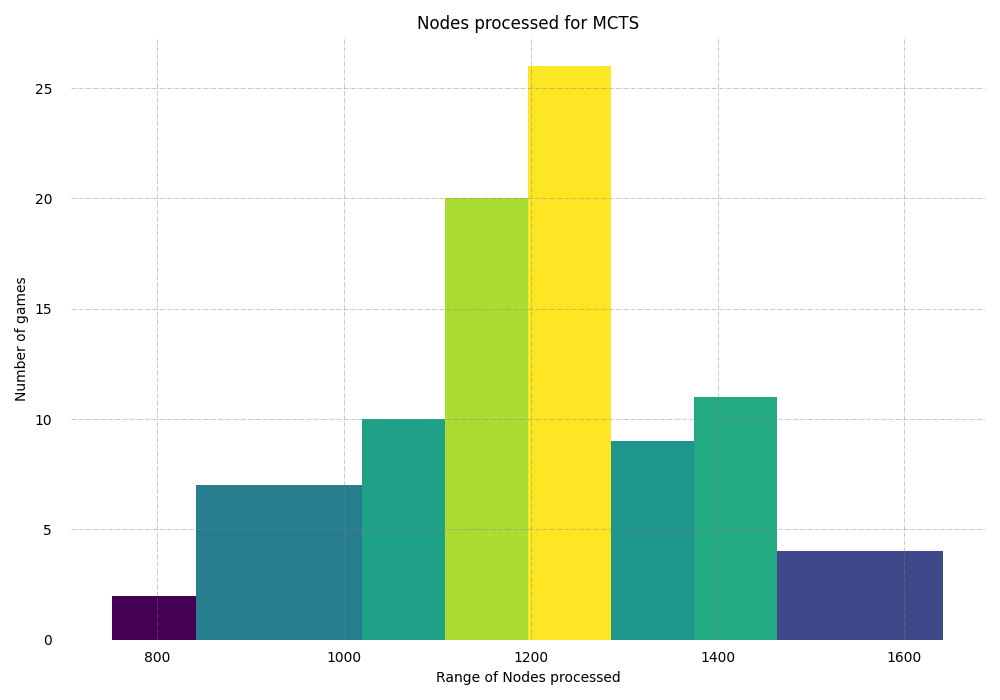
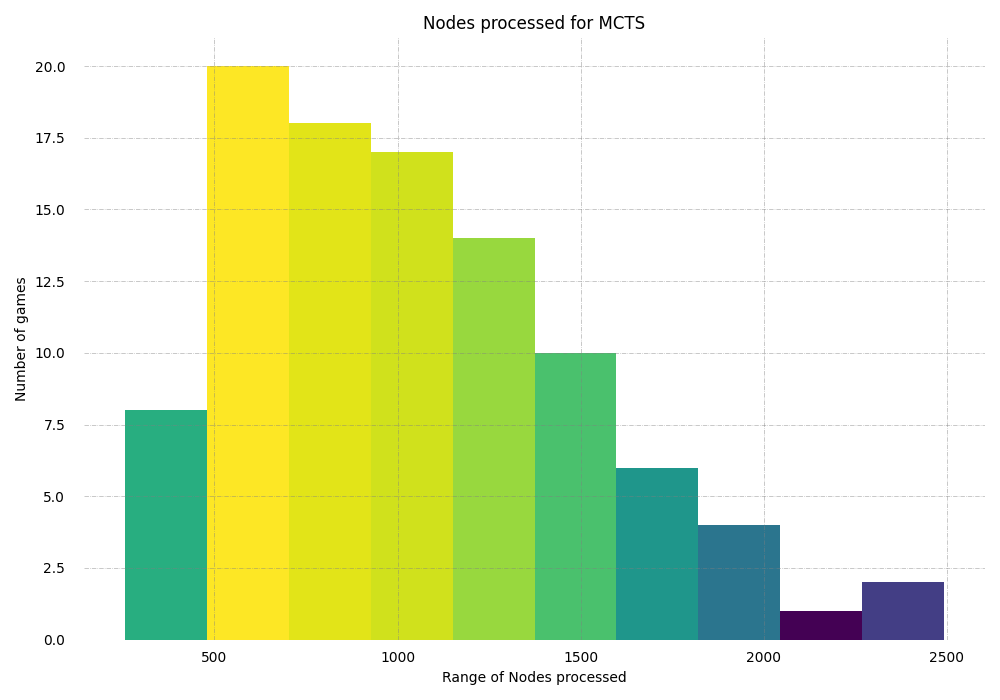
Added python program to simulate NN+MCTS vs MCTS, Added training data

diff --git a/src/treenn_vs_tree.py b/src/treenn_vs_tree.py
@@ -1,0 +1,166 @@
+import argparse
+from copy import deepcopy
+import numpy as np
+import matplotlib.pyplot as plt
+from matplotlib import colors
+from matplotlib.ticker import PercentFormatter
+from board import Board
+import math
+from bot import Node
+from bot import Bot, puct
+from player import Player
+
+def check_num_of_games(val):
+    try:
+        val = int(val)
+        if(val < 0): 
+            return 100
+        return val
+    except:
+        return 100
+
+def accept_board_config(val):
+    try:
+        val = int(val)
+        if(val == 8 or val == 10 or val == 6): 
+            return val
+        return 8
+    except:
+        return 8
+# type = lambda x : x if (x == 8 or x == 10) else 8
+def main():
+    parser = argparse.ArgumentParser(description="Enter the size of board and number of games you want to simulate")
+    parser.add_argument('board_config', default = 8, type = accept_board_config)
+    parser.add_argument('num_of_games', default = 100, type = check_num_of_games)
+    args = parser.parse_args()
+    board_config = args.board_config
+    num_of_games = args.num_of_games
+    num_of_pawns = 0
+    print(f"Board config selected:{board_config}\nNumber of games to be played: {num_of_games}")
+    while True:
+        if(board_config == 8):
+            print("Select Number of Pawns for the board")
+            numOfPawns = int(input("12,\t9,\t6\n"))
+            if numOfPawns == 6 or numOfPawns == 9 or numOfPawns == 12:
+                print("num_of_pawns")
+                num_of_pawns = numOfPawns
+                break
+        else:
+            if board_config == 6:
+                num_of_pawns = 6
+            elif board_config == 10:
+                num_of_pawns = 20
+            break
+    state = Board(board_config, num_of_pawns)
+    node = Node(state, depth = 0)
+    moves = -1
+    nodes_processed = 0
+    games = 0
+    moves_list = []
+    scores = []
+    nodes_processed_list_NNMCTS = []
+    nodes_processed_list_MCTS = []
+    while games < num_of_games:
+        state = Board(board_config, num_of_pawns)
+        obstacles = state.set_obstacles(3)
+        print(f"Obstacles added at {obstacles}")
+        games += 1
+        moves = -1
+        bot = Bot()
+        bot2 = Bot()
+        player_1 = Player(True)
+        player_2 = Player(False)
+        while not state.check_game_status():
+            moves += 1
+            print(f"Game #: {games}/{num_of_games}\nMove #: {moves}")
+            if moves % 2 == 0:
+                print(state)
+                print(f"Moves since last capture: {state.moves_since_last_capture}")
+                print("MCTS's turn")
+                node = player_2.player_MCTS_AI(bot2, state)
+                print(f"Nodes processed this turn {bot2.tree_node_processed}")
+                if node is None:
+                    break
+            else:
+                print(state)
+                print(f"Moves since last capture: {node.state.moves_since_last_capture}")
+                print("NN + MCTS's turn")
+                node = player_1.player_BaseLine_AI(bot, state)
+                print(f"Nodes processed this turn {bot.tree_node_processed}")
+                if node is None:
+                    break
+            state = node.state
+        print(f"Total moves: {moves}")
+        score = state.compute_score()
+        if(len(state.p1_pawns) > len(state.p2_pawns)):
+            print("NN + MCTS AI Won")
+            print(f"Score = {score}")
+        elif len(state.p1_pawns) < len(state.p2_pawns):
+            print("MCTS AI Won")
+            print(f"Score = {score * -1}")
+        else: 
+            print("It's a draw")
+            print(f"Score = {score}")
+        print(f"total nodes processed = {bot.tree_node_processed + bot2.tree_node_processed}")
+        moves_list.append(moves)
+        scores.append(score)
+        nodes_processed_list_MCTS.append(bot2.tree_node_processed)
+        nodes_processed_list_NNMCTS.append(bot.tree_node_processed)
+    from pathlib import Path
+    path = Path('~/../plots/')
+    with open(path/f"NNMCTSvMCTS{board_config}x{board_config}_{num_of_games}_{num_of_pawns}.txt", 'w') as f:
+        f.write(f"Moves List: {moves_list}\nScores List: {scores}\nNodes Processed List MCTS: {nodes_processed_list_MCTS}\nNodes Processed List NN + MCTS: {nodes_processed_list_NNMCTS}")
+    print(moves_list)
+    print(scores)
+    print(nodes_processed_list_MCTS)
+    generatePlots(nodes_processed_list_MCTS, "Range of Nodes processed", "Number of games", "Nodes processed for MCTS", path/f"NodesprocessedMCTS_{board_config}_{num_of_games}_{num_of_pawns}")
+    generatePlots(nodes_processed_list_NNMCTS, "Range of Nodes processed", "Number of games", "Nodes processed for NN + MCTS", path/f"NodesprocessedNNMCTS_{board_config}_{num_of_games}_{num_of_pawns}")
+
+
+def generatePlots(nodes_processed, x_label, y_label, title, file_name):
+    n_bins = 10
+    # Creating histogram
+    fig, axs = plt.subplots(1, 1,
+                            figsize=(10, 7),
+                            tight_layout=True)
+
+    # Remove axes splines
+    for s in ['top', 'bottom', 'left', 'right']:
+        axs.spines[s].set_visible(False)
+
+    # Remove x, y ticks
+    axs.xaxis.set_ticks_position('none')
+    axs.yaxis.set_ticks_position('none')
+
+    # Add padding between axes and labels
+    axs.xaxis.set_tick_params(pad=5)
+    axs.yaxis.set_tick_params(pad=10)
+
+    # Add x, y gridlines
+    axs.grid(b=True, color='grey',
+            linestyle='-.', linewidth=0.5,
+            alpha=0.6)
+
+    # Creating histogram
+    N, bins, patches = axs.hist(nodes_processed, bins=n_bins)
+
+    # Setting color
+    fracs = ((N ** (1 / 5)) / N.max())
+    norm = colors.Normalize(fracs.min(), fracs.max())
+
+    for thisfrac, thispatch in zip(fracs, patches):
+        color = plt.cm.viridis(norm(thisfrac))
+        thispatch.set_facecolor(color)
+
+    # Adding extra features
+
+    plt.xlabel(x_label)
+    plt.ylabel(y_label)
+    plt.title(title)
+
+    # Show plot
+    plt.savefig(file_name)
+    
+if __name__ == "__main__":
+    main()
+    

diff --git a/src/player.py b/src/player.py
@@ -75,11 +75,8 @@ class Player:
 
     # If selected player's Control is BaseLine AI
     def player_BaseLine_AI(self, game_bot, board):
-        nodes_processed = game_bot.tree_node_processed
         node = Node(board, depth=0)
         node = game_bot.base_line_AI(node)
-        nodes_processed_this_turn = game_bot.tree_node_processed - nodes_processed
-        print(f"nodes_processed_this_turn {nodes_processed_this_turn}")
         return node
 
     # If selected player's Control is NN+MCTS AI

diff --git a/src/bot.py b/src/bot.py
@@ -69,7 +69,7 @@ def puct_probs(node):
     return probs
 
 class Node():
-    def __init__(self, state, depth = 0, choose_method = nn_puct):
+    def __init__(self, state, depth = 0, choose_method = puct):
         self.state = state
         self.visit_count = 0
         self.score_total = 0
